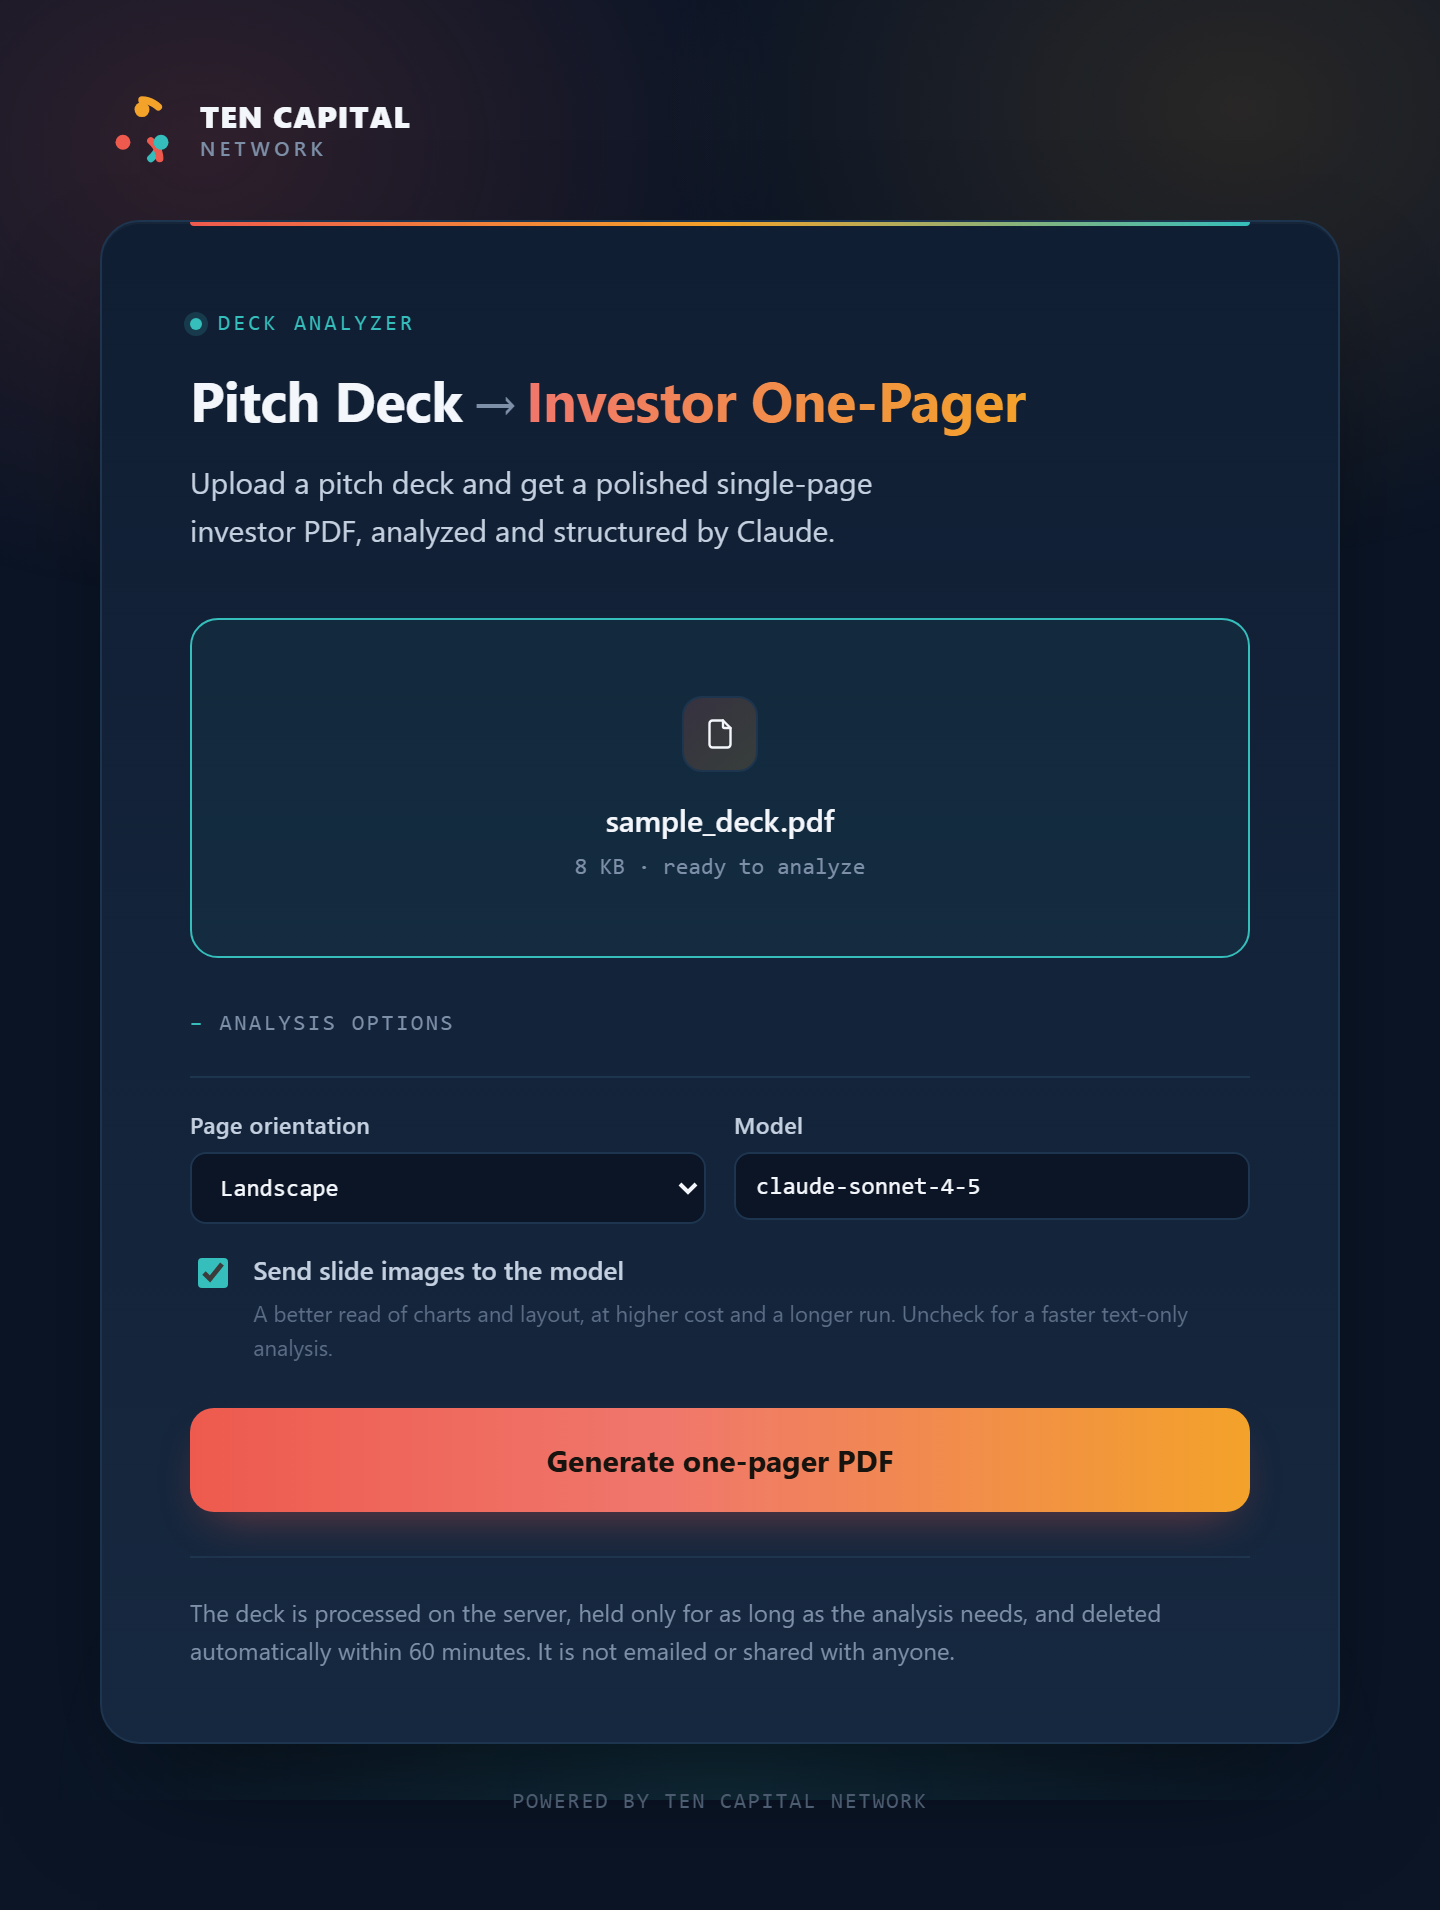
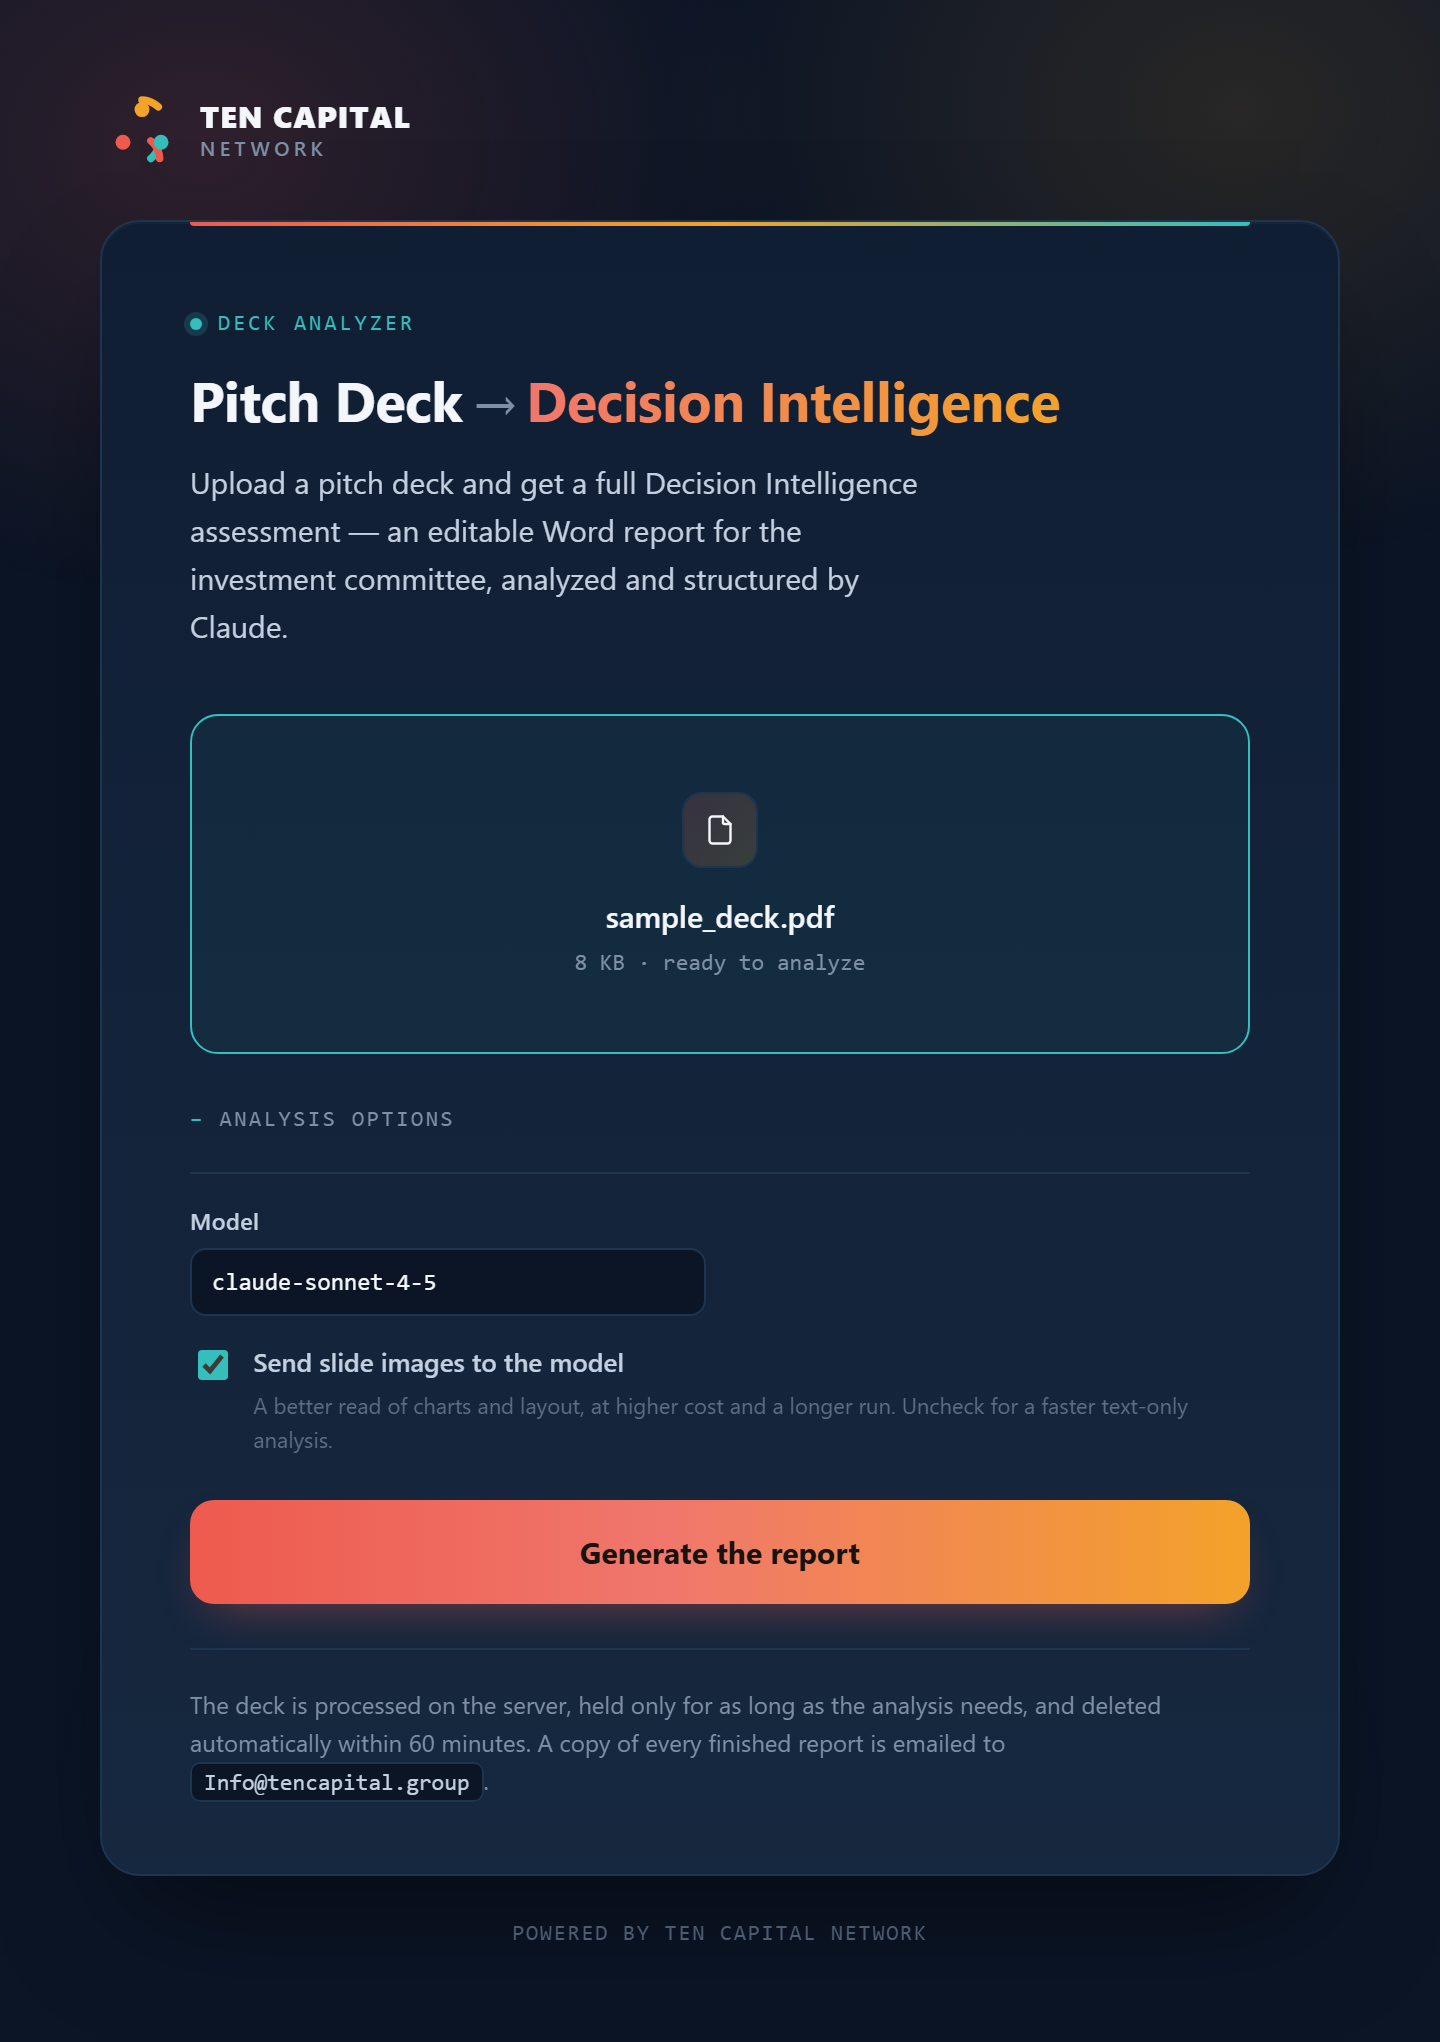
Fix CLI crash after a successful run, and cover the CLI in tests
_print_summary still referenced a `summary` local that was removed when the
schema flattened, so every CLI run ended in NameError — after the report had
been written and the email delivered. No test exercised the CLI's own output
path, so the suite stayed green while the command was broken end to end.

Adds tests/test_cli.py, which invokes the command through Typer's runner with
the model call stubbed: the report is written, the verdict line prints, the
default output path is derived, and a mail failure warns without failing the
run.

Also corrects UI copy that still described the previous output: the upload page
offered a "polished single-page investor PDF" and the job page said it was
"building the one-pager" in "two to four minutes". Runs now take five to
fifteen. Screenshot regenerated.

Verified on a live run: an 11,002-word, 18-table, seven-part report rendered
and the email reached Info@tencapital.group with last_event=delivered.

diff --git a/src/pitch_analyzer/web_templates/job.html b/src/pitch_analyzer/web_templates/job.html
@@ -7,9 +7,9 @@
   <div class="eyebrow is-working" id="eyebrow">Analyzing</div>
   <h1 id="headline">{{ job.company_name or job.filename }}</h1>
   <p class="lede" id="lede">
-    Claude is reading the deck and building the one-pager. This usually takes
-    two to four minutes — you can leave this page open, or come back to this URL
-    later.
+    Claude is reading the deck and writing the assessment. This usually takes
+    five to fifteen minutes — you can leave this page open, or come back to this
+    URL later.
   </p>
 
   <div class="alert error" id="error-box" role="alert" hidden></div>

diff --git a/src/pitch_analyzer/web_templates/index.html b/src/pitch_analyzer/web_templates/index.html
@@ -6,8 +6,9 @@
   <div class="eyebrow">Deck Analyzer</div>
   <h1>Pitch Deck<span class="arrow">&rarr;</span><span class="to">Decision Intelligence</span></h1>
   <p class="lede">
-    Upload a pitch deck and get a polished single-page investor PDF, analyzed
-    and structured by Claude.
+    Upload a pitch deck and get a full Decision Intelligence assessment — an
+    editable Word report for the investment committee, analyzed and structured
+    by Claude.
   </p>
 
   {% if not api_key_configured %}

diff --git a/tests/test_cli.py b/tests/test_cli.py
@@ -1,0 +1,117 @@
+"""CLI tests. The API and email are stubbed — no test reaches the network."""
+
+from __future__ import annotations
+
+import io
+
+import pytest
+from typer.testing import CliRunner
+
+from pitch_analyzer import cli as cli_module
+
+# Rich wraps its error panel to the terminal width, truncating the message.
+WIDE = {"COLUMNS": "200", "TERM": "dumb"}
+runner = CliRunner()
+
+
+@pytest.fixture
+def deck(tmp_path):
+    from reportlab.lib.pagesizes import letter
+    from reportlab.pdfgen import canvas
+
+    path = tmp_path / "Acme Deck.pdf"
+    pdf = canvas.Canvas(str(path), pagesize=letter)
+    for title in ("Acme Robotics", "The Problem", "The Ask"):
+        pdf.setFont("Helvetica-Bold", 24)
+        pdf.drawString(72, 700, title)
+        pdf.showPage()
+    pdf.save()
+    return path
+
+
+@pytest.fixture
+def stubbed(monkeypatch, analysis_result):
+    """Replace the model call; everything downstream runs for real."""
+    monkeypatch.setattr(
+        cli_module, "analyze_deck", lambda *args, **kwargs: analysis_result
+    )
+    monkeypatch.delenv("RESEND_API_KEY", raising=False)
+    return analysis_result
+
+
+def test_analyze_writes_a_report_and_prints_the_verdict(deck, tmp_path, stubbed):
+    """Regression: `_print_summary` referenced an undeleted local and raised
+    NameError *after* the report and the email had already succeeded."""
+    output = tmp_path / "report.docx"
+
+    result = runner.invoke(
+        cli_module.app,
+        ["analyze", str(deck), "-o", str(output), "--no-images", "--no-email"],
+    )
+
+    assert result.exit_code == 0, result.output
+    assert "INVESTIGATE FURTHER" in result.output
+    assert "62% confidence" in result.output
+    assert "weighted 4.6/10" in result.output
+    assert output.exists()
+    assert output.read_bytes()[:2] == b"PK"
+
+
+def test_output_defaults_to_the_deck_stem(deck, stubbed):
+    result = runner.invoke(
+        cli_module.app, ["analyze", str(deck), "--no-images", "--no-email"]
+    )
+
+    assert result.exit_code == 0, result.output
+    assert deck.with_name("Acme Deck_analysis.docx").exists()
+
+
+def test_email_status_is_reported_when_configured(deck, tmp_path, monkeypatch, stubbed):
+    monkeypatch.setattr(
+        cli_module, "notify_report_ready", lambda *a, **k: "Emailed the report to x."
+    )
+
+    result = runner.invoke(
+        cli_module.app,
+        ["analyze", str(deck), "-o", str(tmp_path / "r.docx"), "--no-images"],
+    )
+
+    assert result.exit_code == 0, result.output
+    assert "Emailed the report to x." in result.output
+
+
+def test_a_mail_failure_warns_but_does_not_fail_the_run(
+    deck, tmp_path, monkeypatch, stubbed
+):
+    monkeypatch.setattr(
+        cli_module,
+        "notify_report_ready",
+        lambda *a, **k: "Could not email the report: Resend rate limit reached.",
+    )
+    output = tmp_path / "r.docx"
+
+    result = runner.invoke(
+        cli_module.app, ["analyze", str(deck), "-o", str(output), "--no-images"]
+    )
+
+    assert result.exit_code == 0, result.output
+    assert output.exists()
+
+
+def test_unsupported_extension_is_rejected_before_any_api_call(tmp_path, stubbed):
+    bad = tmp_path / "deck.key"
+    bad.write_text("not a deck")
+
+    result = runner.invoke(cli_module.app, ["analyze", str(bad)], env=WIDE)
+
+    assert result.exit_code != 0
+    assert "Expected .pdf or .pptx" in result.output
+
+
+def test_missing_file_is_rejected(tmp_path, stubbed):
+    result = runner.invoke(
+        cli_module.app, ["analyze", str(tmp_path / "nope.pdf")], env=WIDE
+    )
+
+    assert result.exit_code != 0
+    assert "File not found" in result.output

diff --git a/src/pitch_analyzer/cli.py b/src/pitch_analyzer/cli.py
@@ -213,7 +213,7 @@ def _print_summary(analysis: AnalysisResult, destination: Path) -> None:
     color = colors.get(analysis.recommendation, "yellow")
 
     console.print(
-        f"\n[bold {color}]{summary.recommendation.upper()}[/bold {color}] "
+        f"\n[bold {color}]{analysis.recommendation.upper()}[/bold {color}] "
         f"- {analysis.confidence_pct}% confidence "
         f"- weighted {analysis.weighted_overall:.1f}/10"
     )
